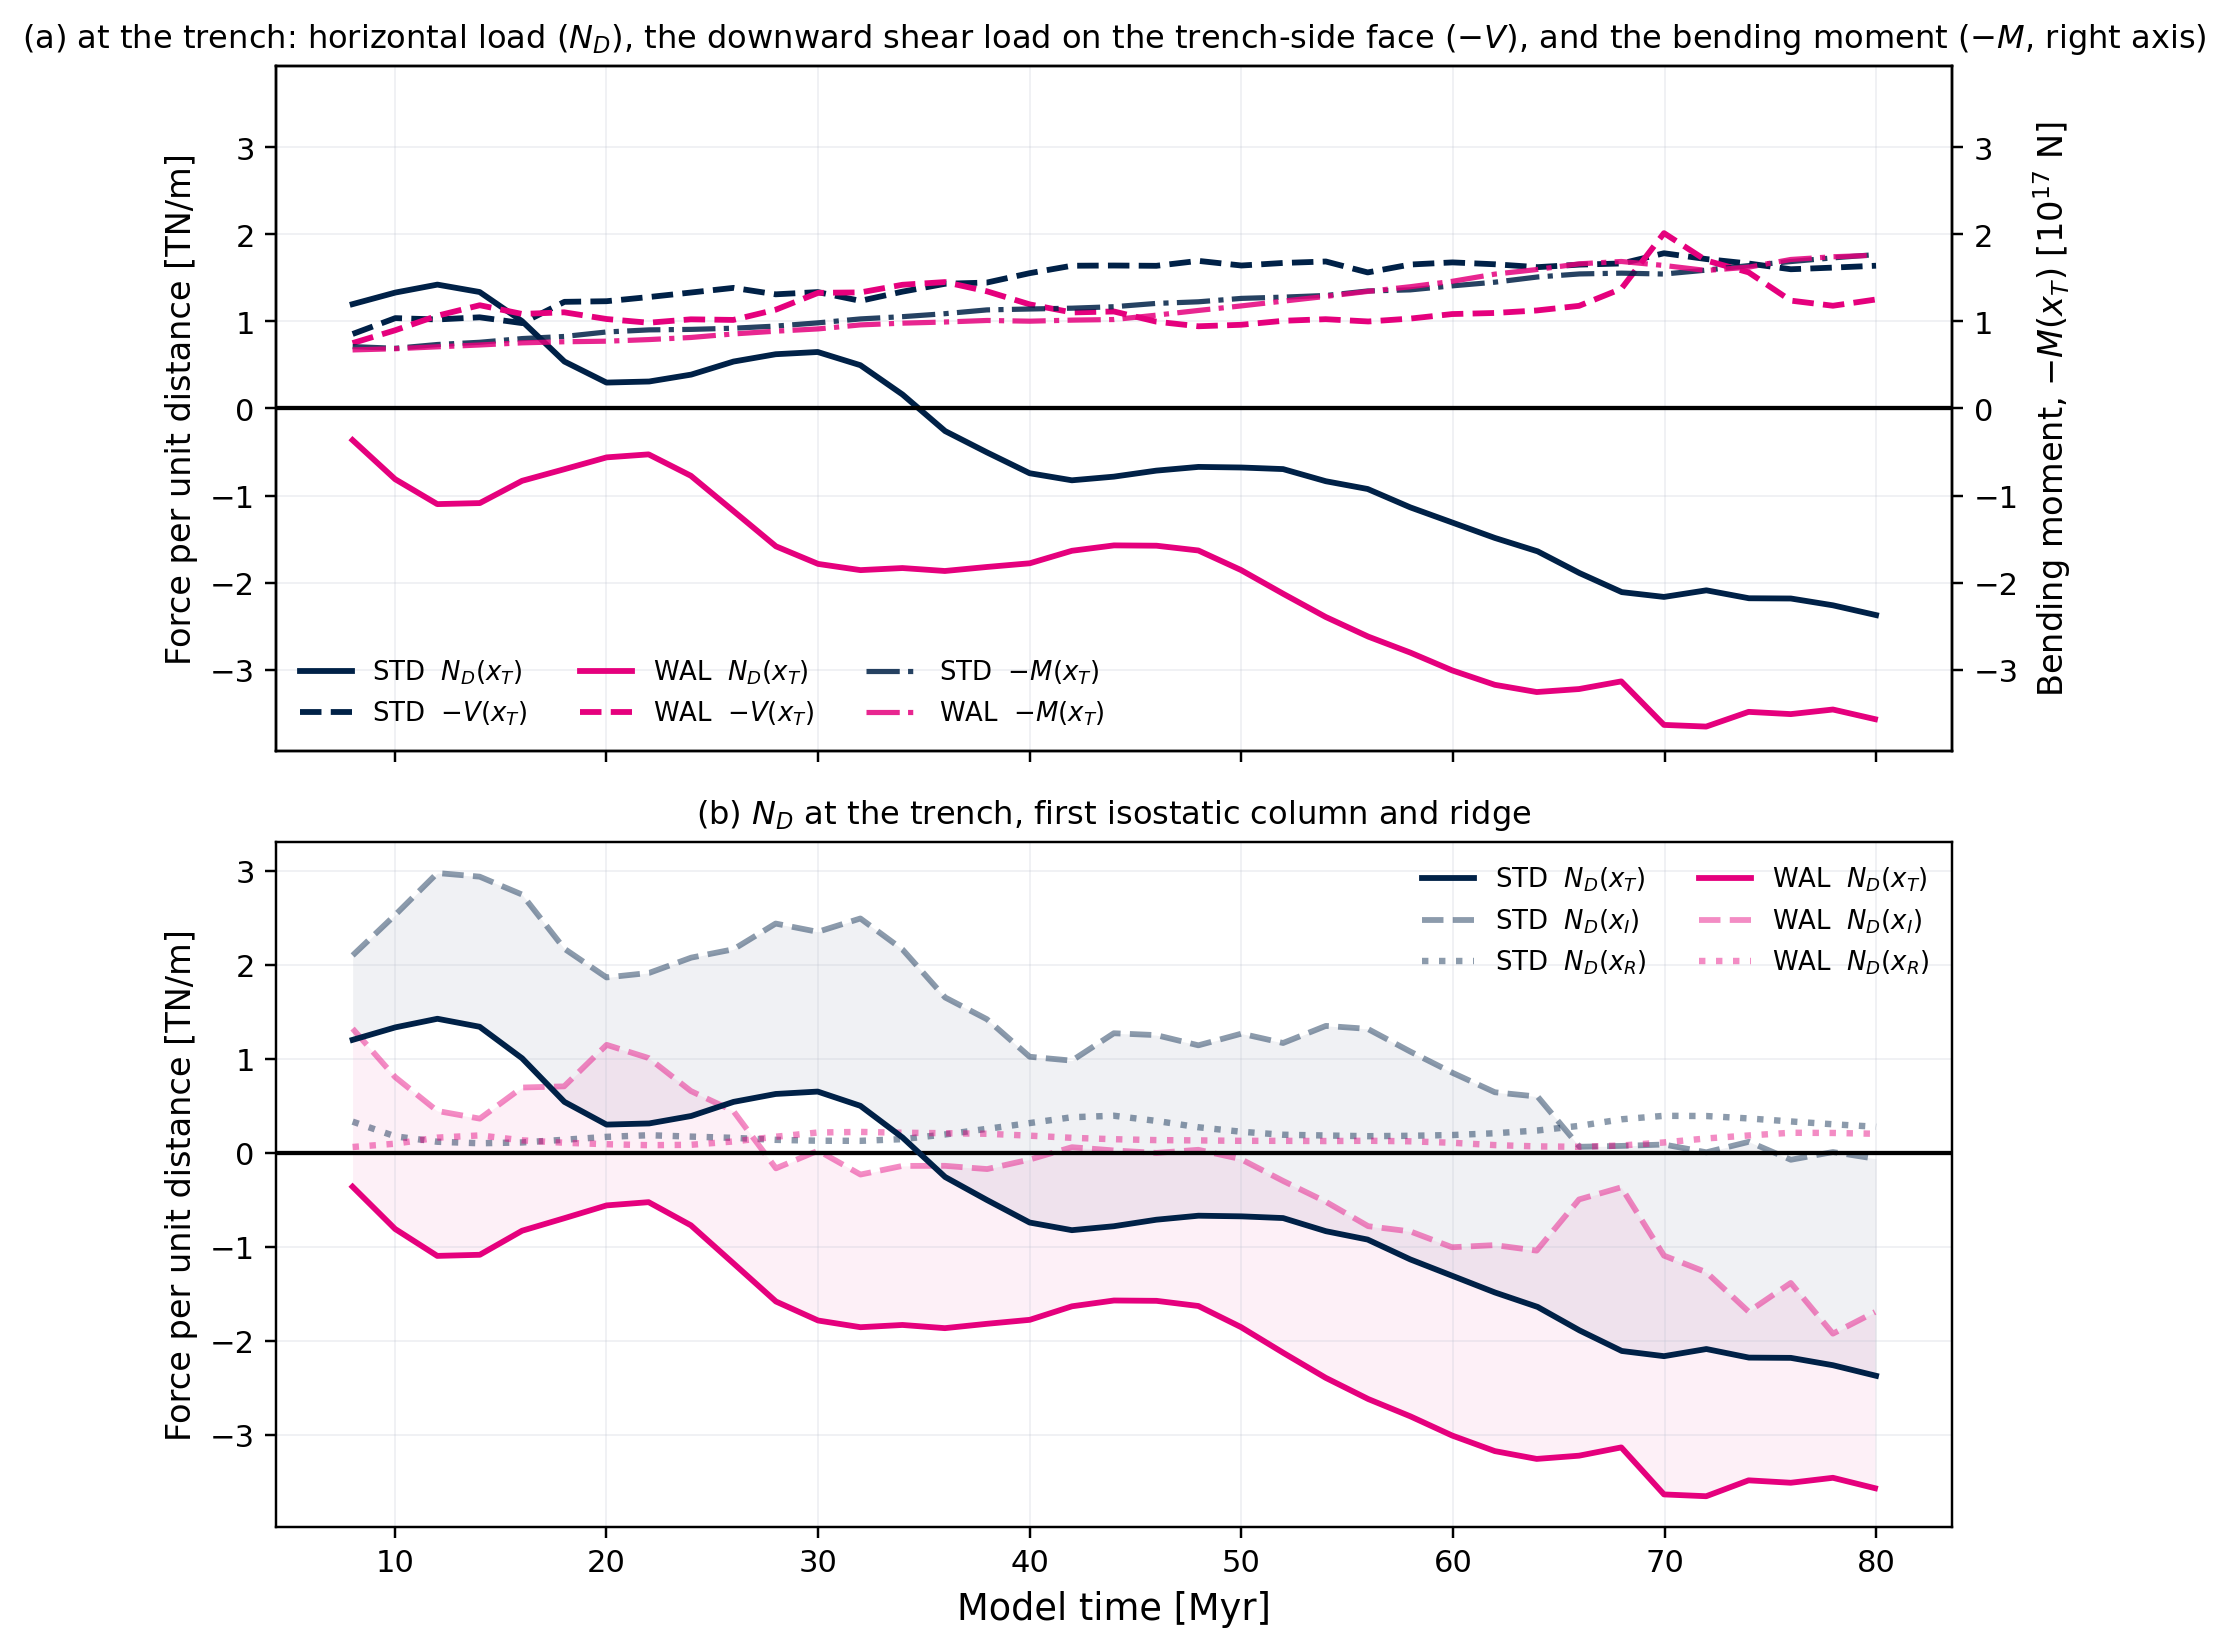
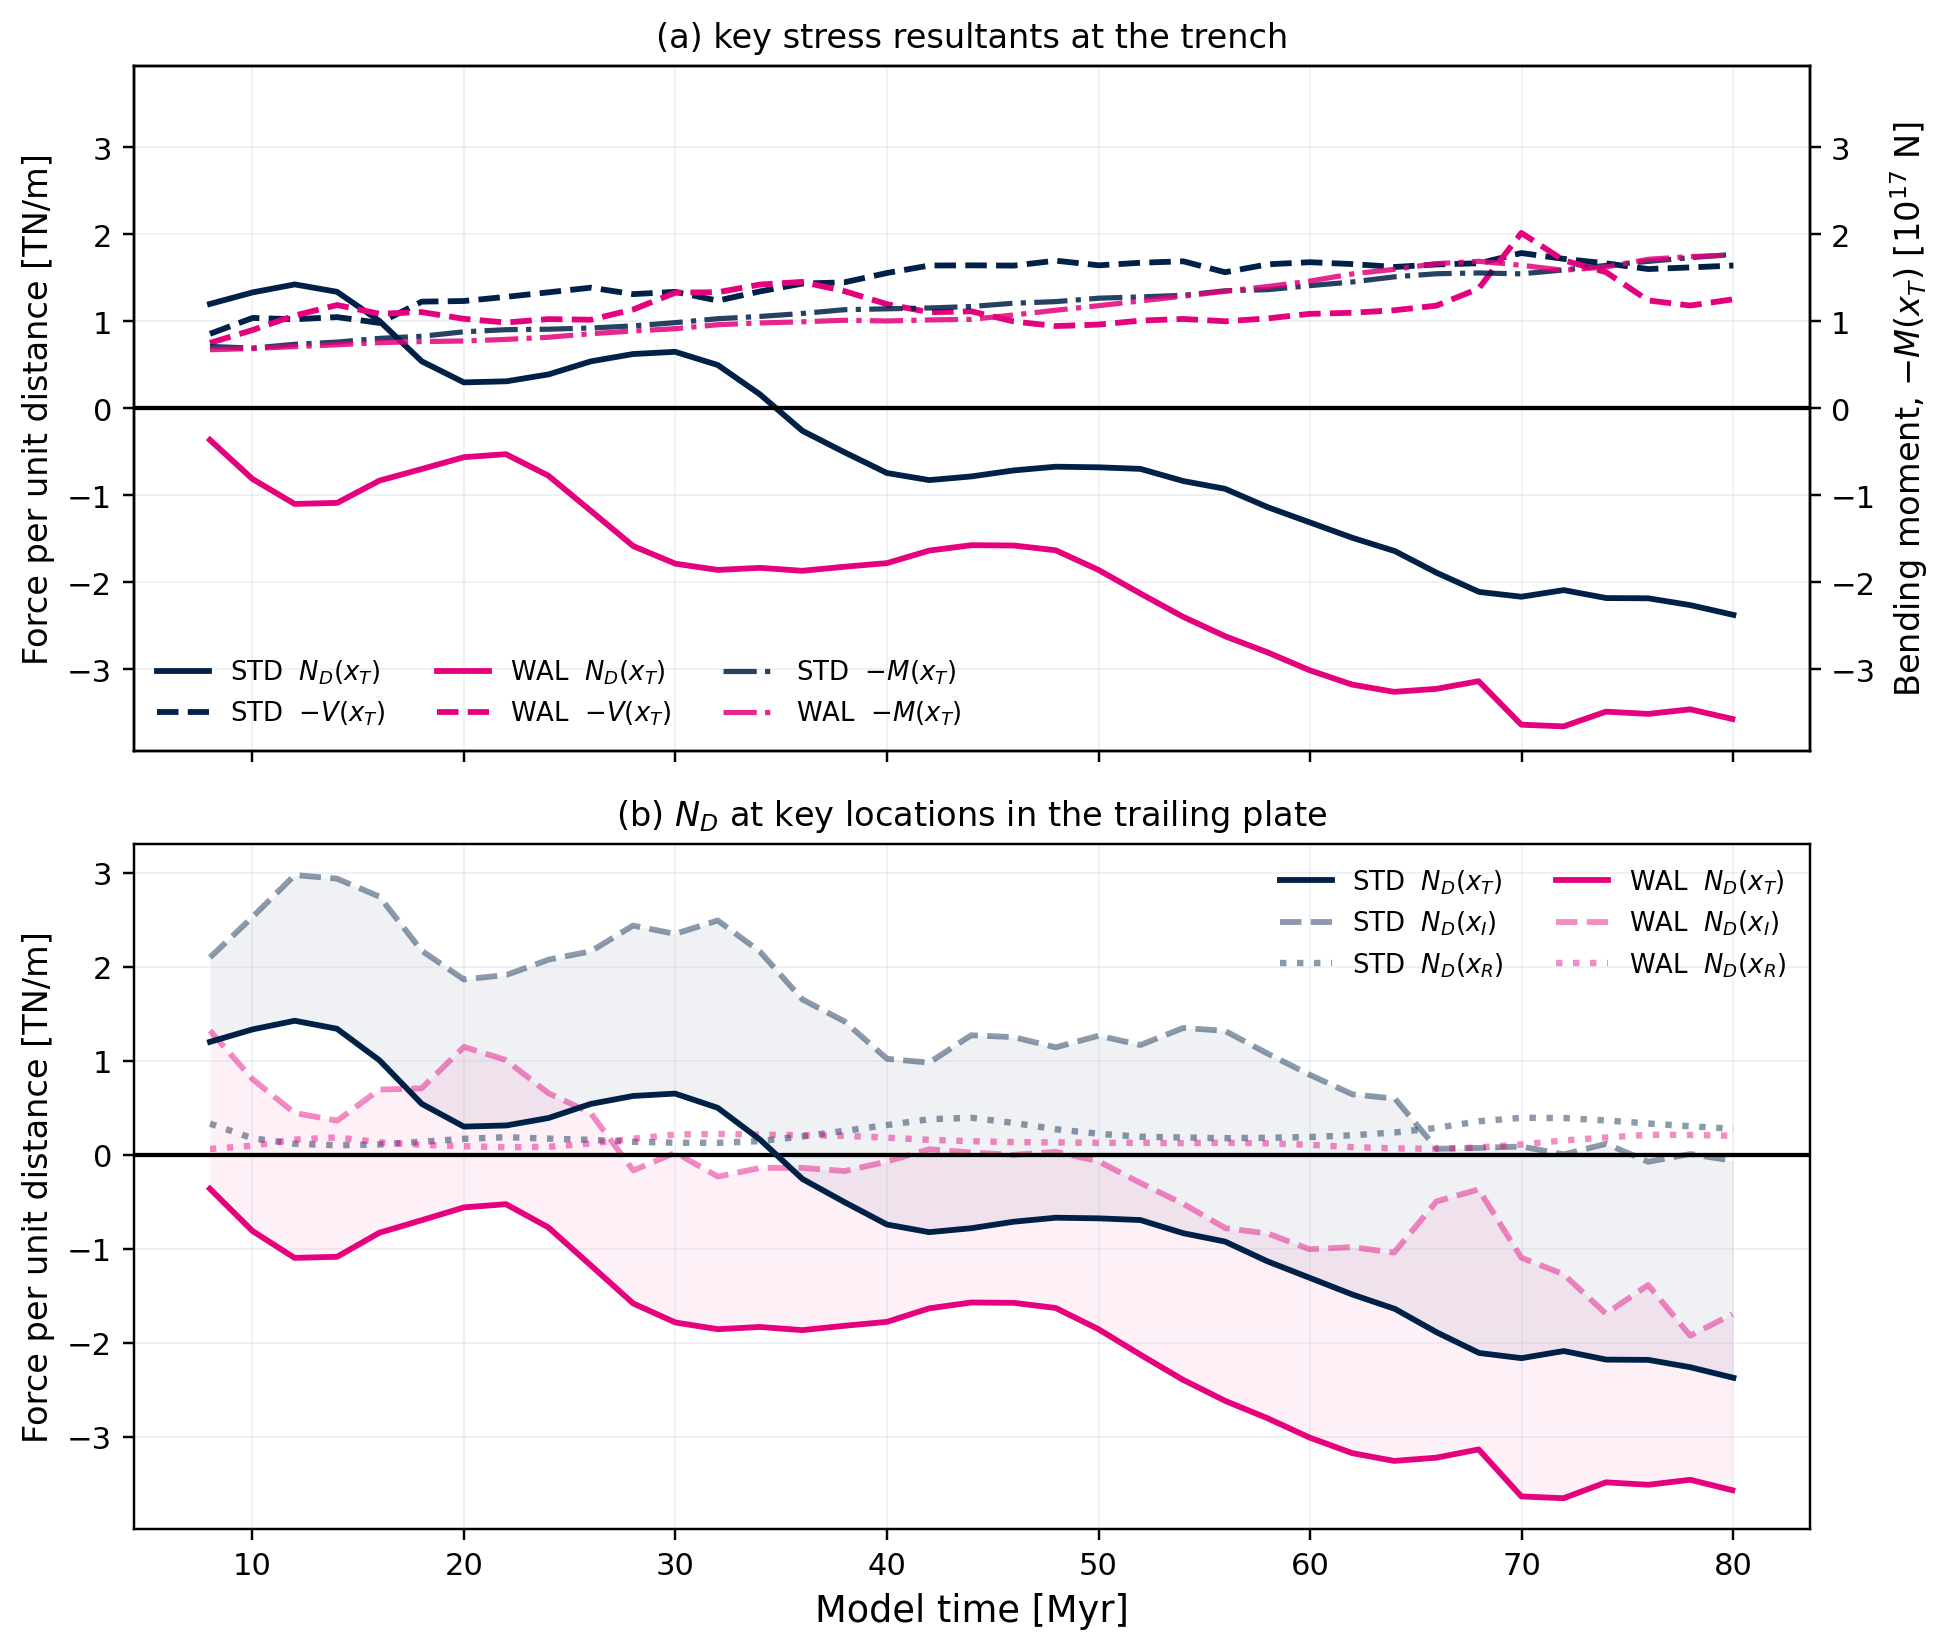
fig_trench_resultants: plain panel titles
Titles now name the subject only — '(a) key stress resultants at the
trench', '(b) N_D at key locations in the trailing plate'. What each curve
is belongs in the legend and the caption, not spelled out across the top
of the figure.

diff --git a/scripts/fig_trench_resultants.py b/scripts/fig_trench_resultants.py
@@ -161,9 +161,10 @@ def main():
                   f'{(d_tr > 0).mean():.3f}'),
                  (key, 'abs_v_over_abs_nd_trench_median',
                   f'{np.median(np.abs(v_t) / np.abs(nd_t)):.2f}')]
-    axes[0].set_title('(a) at the trench: horizontal load ($N_D$), the downward '
-                      'shear load on the trench-side face ($-V$), and the '
-                      'bending moment ($-M$, right axis)', fontsize=10.5)
+    # Panel titles name the SUBJECT only; what each curve is belongs in the
+    # legend and the caption, not spelled out across the top of the figure
+    # (Dan, 2026-09-25).
+    axes[0].set_title('(a) key stress resultants at the trench', fontsize=11)
     a0b.set_ylabel(r'Bending moment, $-M(x_T)$ [$10^{17}$ N]', fontsize=11)
     # SHARED NUMERICAL RANGE, SYMMETRIC ABOUT ZERO (Dan, 2026-09-25).
     # The two axes carry different dimensions -- TN/m and 1e17 N -- and are
@@ -180,8 +181,8 @@ def main():
     A = max(abs(fl), abs(fh))
     axes[0].set_ylim(-A, A)
     a0b.set_ylim(-A, A)
-    axes[1].set_title('(b) $N_D$ at the trench, first isostatic column and ridge',
-                      fontsize=10.5)
+    axes[1].set_title('(b) $N_D$ at key locations in the trailing plate',
+                      fontsize=11)
     axes[1].set_xlabel('Model time [Myr]', fontsize=12)
     for ax in axes:
         ax.axhline(0, color='k', lw=1.4)
